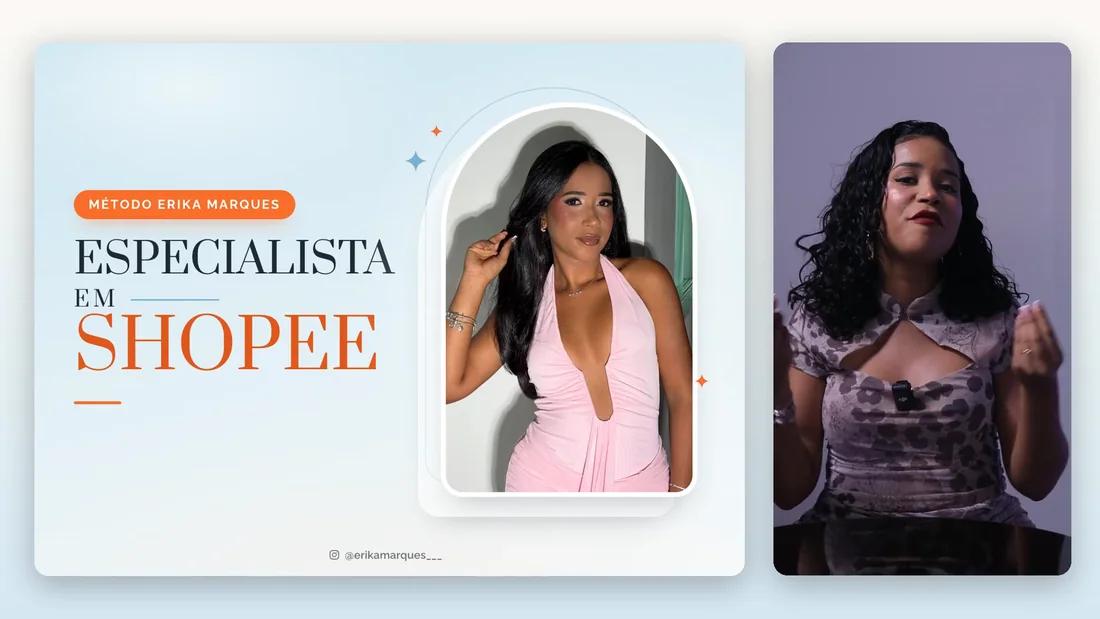
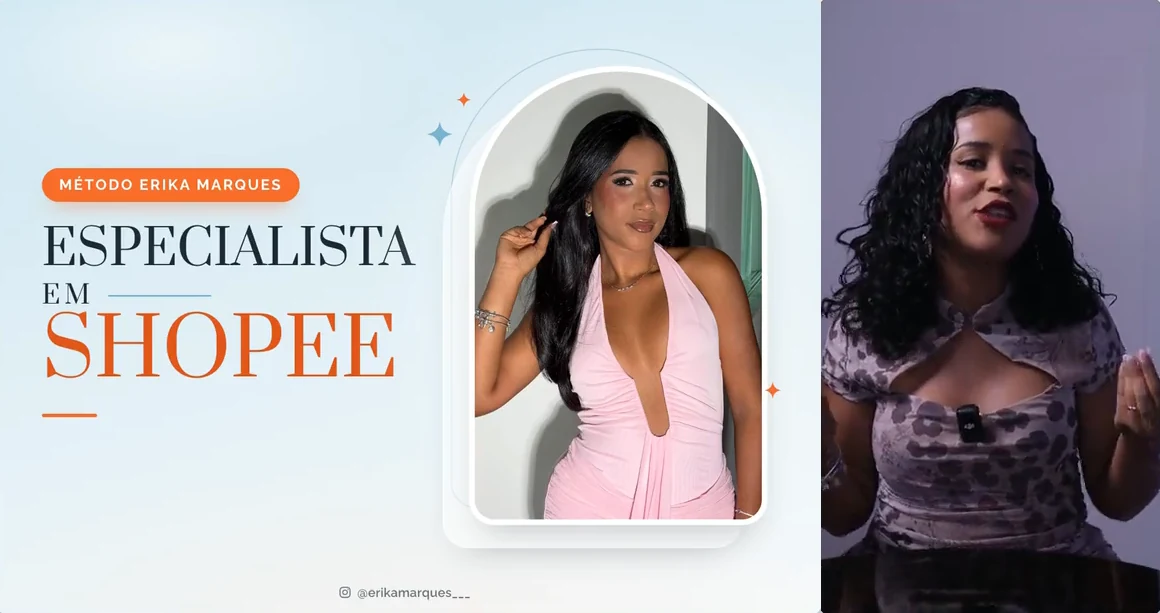
Правки Лёши 01.10: видео с отступами и цельной обложкой, плашка после тарифов, 4 подарка, подпись таймера, мозг вместо робота, меню справа вверху
Claude-Session: https://claude.ai/code/session_01M8CoCvZV8TB4j15tHc6buF

diff --git a/final/index.html b/final/index.html
@@ -69,7 +69,7 @@
       <li class="hero__tile reveal"><img src="assets/3d/A07.webp" width="360" height="347" alt="" loading="lazy" decoding="async"><span>От 1 до 4 часов в&nbsp;день</span></li>
     </ul>
     <button class="video-card" type="button" data-video-open aria-label="Смотреть видео">
-      <img src="assets/img/video-poster.webp" width="1100" height="619" alt="" loading="lazy" decoding="async">
+      <img src="assets/img/video-poster.webp" width="1160" height="613" alt="" loading="lazy" decoding="async">
       <span class="video-card__ring" aria-hidden="true"></span>
       <span class="video-card__play" aria-hidden="true"><svg class="i"><use href="#i-play"/></svg></span>
       <span class="hint hint--tap hint--dark video-card__hint" aria-hidden="true">Нажми, чтобы посмотреть</span>
@@ -77,18 +77,6 @@
   </div>
 </section>
 
-<!-- ================= План Б: плашка «Напиши мне в WhatsApp» сразу под первым блоком.
-     Скрыта по умолчанию; site.js показывает её, когда человек пришёл через форму (?lead=1, потом помним в sessionStorage) или открыл ?planb=1 ================= -->
-<section class="pb-wa" id="pb-wa" hidden aria-labelledby="pb-wa-t">
-  <div class="pb-wa__card">
-    <span class="pb-wa__ic" aria-hidden="true"><svg class="i" aria-hidden="true" focusable="false"><use href="#i-wa"/></svg></span>
-    <div class="pb-wa__txt">
-      <h2 class="pb-wa__t" id="pb-wa-t">Напиши мне в&nbsp;WhatsApp</h2>
-      <p class="pb-wa__p">Отвечу на вопросы и подскажу, какой тариф выбрать.</p>
-    </div>
-    <a class="btn btn--wa pb-wa__btn" id="pb-wa-btn" href="https://wa.me/557187627227?text=Ol%C3%A1%21%20Vim%20do%20site%20do%20curso%20e%20tenho%20uma%20d%C3%BAvida." target="_blank" rel="noopener"><svg class="i" aria-hidden="true" focusable="false"><use href="#i-wa"/></svg>Написать в WhatsApp</a>
-  </div>
-</section>
 
 <!-- ================= Блок 2 — для кого: 7 ситуаций, два варианта (A — 3D-диорамы, B — фото-сцены: ?b2=faces) ================= -->
 <section class="blk bg-paper" id="b2">
@@ -366,7 +354,7 @@
       </article>
       <!-- Лёша 01.10 (раунд 10): бывшие плитки — слайдами ленты, тот же вид, что у макетов; картинки — декор (aria-hidden) -->
       <article class="carousel__card feat feat--ai">
-        <div class="feat__media feat__media--art"><span class="feat__art feat__art--ai" aria-hidden="true"><img src="assets/l5/robot-ai.webp" width="827" height="1082" alt="" loading="lazy" decoding="async"></span></div>
+        <div class="feat__media feat__media--art"><span class="feat__art feat__art--ai" aria-hidden="true"><img src="assets/l5/brain-ai.webp" width="700" height="779" alt="" loading="lazy" decoding="async"></span></div>
         <div class="feat__txt">
           <h3 class="feat__t">Готовые команды для ИИ</h3>
           <p class="feat__p">По всем 5 способам. Вставляешь команду — и ИИ делает работу за тебя: описание товара, картинку, ответ покупателю.</p>
@@ -637,7 +625,7 @@
 <section id="tariffs" class="blk bg-golden" aria-labelledby="tariffs-title">
   <h2 class="blk__title" id="tariffs-title">Выбери свой тариф</h2>
   <div class="t8-deal">
-    <p class="t8-deal__line">Самые низкие цены действуют до:</p>
+    <p class="t8-deal__line">Выбери тариф до повышения цен:</p>
     <div class="cd t8-pcd" data-price-timer role="timer">
       <div class="cd__tile"><b data-cd="h">24</b><span>часов</span></div>
       <div class="cd__tile"><b data-cd="m">00</b><span>минут</span></div>
@@ -720,7 +708,7 @@
       </article>
   </div>
   <div class="t8-deal t8-deal--end">
-    <p class="t8-deal__line">Самые низкие цены действуют до:</p>
+    <p class="t8-deal__line">Выбери тариф до повышения цен:</p>
     <div class="cd t8-pcd" data-price-timer role="timer">
       <div class="cd__tile"><b data-cd="h">24</b><span>часов</span></div>
       <div class="cd__tile"><b data-cd="m">00</b><span>минут</span></div>
@@ -736,14 +724,28 @@
       </div>
     </div>
     <ul class="t8-bonus__list">
-      <li class="t8-bonus__item"><img class="t8-bonus__ico" src="assets/3d/clipboard.webp" alt="" width="56" height="56" loading="lazy" decoding="async"><div><span class="t8-bonus__n" aria-hidden="true">Подарок 1</span><p class="t8-bonus__name">Чек-лист «Первый клиент за 14 дней»</p></div></li>
-      <li class="t8-bonus__item"><img class="t8-bonus__ico" src="assets/3d/calculator.webp" alt="" width="56" height="56" loading="lazy" decoding="async"><div><span class="t8-bonus__n" aria-hidden="true">Подарок 2</span><p class="t8-bonus__name">Калькулятор цены</p></div></li>
-      <li class="t8-bonus__item"><img class="t8-bonus__ico" src="assets/3d/notebook.webp" alt="" width="56" height="56" loading="lazy" decoding="async"><div><span class="t8-bonus__n" aria-hidden="true">Подарок 3</span><p class="t8-bonus__name">Готовый прайс для клиентов</p></div></li>
+      <li class="t8-bonus__item"><img class="t8-bonus__ico" src="assets/3d/gift-access.webp" alt="" width="56" height="56" loading="lazy" decoding="async"><div><span class="t8-bonus__n" aria-hidden="true">Подарок 1</span><p class="t8-bonus__name">Удвоение доступа к урокам</p></div></li>
+      <li class="t8-bonus__item"><img class="t8-bonus__ico" src="assets/3d/gift-orders.webp" alt="" width="56" height="56" loading="lazy" decoding="async"><div><span class="t8-bonus__n" aria-hidden="true">Подарок 2</span><p class="t8-bonus__name">Учебных заказов от меня вдвое больше</p></div></li>
+      <li class="t8-bonus__item"><img class="t8-bonus__ico" src="assets/3d/clipboard.webp" alt="" width="56" height="56" loading="lazy" decoding="async"><div><span class="t8-bonus__n" aria-hidden="true">Подарок 3</span><p class="t8-bonus__name">Чек-лист «Первый клиент за 14 дней»</p></div></li>
+      <li class="t8-bonus__item"><img class="t8-bonus__ico" src="assets/3d/calculator.webp" alt="" width="56" height="56" loading="lazy" decoding="async"><div><span class="t8-bonus__n" aria-hidden="true">Подарок 4</span><p class="t8-bonus__name">Калькулятор цены + готовый прайс для клиентов</p></div></li>
     </ul>
   </div>
   <div class="cta">
     <a class="btn" id="tariffs-cta" href="#tariffs" data-cta>Получить доступ</a>
     <p class="cta__note">Pix или карта · Доступ сразу после оплаты · Гарантия&nbsp;7&nbsp;дней</p>
+  </div>
+</section>
+
+<!-- ================= План Б: плашка «Есть вопросы — напиши Эрике» СРАЗУ ПОСЛЕ ТАРИФОВ (Лёша 01.10: раньше это отвлекает от покупки).
+     Скрыта по умолчанию; site.js показывает её, когда человек пришёл через форму (?lead=1, потом помним в sessionStorage), открыл ?planb=1 или хост oferta. ================= -->
+<section class="pb-wa" id="pb-wa" hidden aria-labelledby="pb-wa-t">
+  <div class="pb-wa__card">
+    <span class="pb-wa__ic" aria-hidden="true"><svg class="i" aria-hidden="true" focusable="false"><use href="#i-wa"/></svg></span>
+    <div class="pb-wa__txt">
+      <h2 class="pb-wa__t" id="pb-wa-t">Напиши мне в&nbsp;WhatsApp</h2>
+      <p class="pb-wa__p">Отвечу на вопросы и подскажу, какой тариф выбрать.</p>
+    </div>
+    <a class="btn btn--wa pb-wa__btn" id="pb-wa-btn" href="https://wa.me/557187627227?text=Ol%C3%A1%21%20Vim%20do%20site%20do%20curso%20e%20tenho%20uma%20d%C3%BAvida." target="_blank" rel="noopener"><svg class="i" aria-hidden="true" focusable="false"><use href="#i-wa"/></svg>Написать в WhatsApp</a>
   </div>
 </section>
 
@@ -872,13 +874,13 @@
     <blockquote class="b10-quote"><p>У женщины должны быть свои деньги. Давай начнём с твоих.</p></blockquote>
   </figure>
   <div class="b10-deal">
-    <p class="b10-deadline">Самые низкие цены действуют до:</p>
+    <p class="b10-deadline">Выбери тариф до повышения цен:</p>
     <div class="cd b10-cd" data-price-timer role="timer">
       <div class="cd__tile"><b data-cd="h">24</b><span>часов</span></div>
       <div class="cd__tile"><b data-cd="m">00</b><span>минут</span></div>
       <div class="cd__tile"><b data-cd="s">00</b><span>секунд</span></div>
     </div>
-    <p class="b10-bonus">Оплатишь в течение 3 часов — получишь бонусы: чек-лист «Первый клиент за 14 дней», калькулятор цены и готовый прайс.</p>
+    <p class="b10-bonus">Оплатишь в течение 3 часов — получишь бонусы: удвоение доступа, вдвое больше учебных заказов, чек-лист «Первый клиент за 14 дней», калькулятор цены и готовый прайс.</p>
   </div>
   <div class="cta">
     <a class="btn" id="b10-cta" href="#tariffs" data-cta>Получить доступ</a>
@@ -898,7 +900,7 @@
     <details class="b11-q"><summary>Нужен компьютер?</summary><div class="b11-a"><p>Нет, хватит телефона с интернетом.</p></div></details>
     <details class="b11-q"><summary>Сколько времени нужно?</summary><div class="b11-a"><p>От 1 до 4 часов в день — в своём графике.</p></div></details>
     <details class="b11-q"><summary>Когда и куда придёт доступ?</summary><div class="b11-a"><p>Сразу после оплаты — на почту, которую ты указала. Поэтому указывай её внимательно.</p></div></details>
-    <details class="b11-q"><summary>Сколько длится доступ?</summary><div class="b11-a"><p>Зависит от тарифа: «Старт» — 2 месяца, «Специалист по Shopee» — 6 месяцев, VIP — 12 месяцев.</p></div></details>
+    <details class="b11-q"><summary>Сколько длится доступ?</summary><div class="b11-a"><p>Зависит от тарифа: «Старт» — 2 месяца, «Специалист по Shopee» — 6 месяцев, VIP — 12 месяцев. Оплатишь в течение 3 часов — доступ удвоим (кроме «Старта»): 12 и 24 месяца.</p></div></details>
     <details class="b11-q"><summary>У меня нет кредитной карты. Смогу оплатить?</summary><div class="b11-a"><p>Да, через Pix со своего банковского счёта.</p></div></details>
     <details class="b11-q"><summary>У меня «грязное имя» (долги в Serasa). Смогу оплатить?</summary><div class="b11-a"><p>Да. Pix — это перевод с твоего банковского счёта, кредитную историю никто не проверяет.</p></div></details>
     <details class="b11-q"><summary>Своих денег прямо сейчас нет. Что делать?</summary><div class="b11-a"><p>Можно оплатить картой мужа или мамы — с их согласия, доступ получаешь ты. Или разбить оплату до 12 платежей: «Специалист по Shopee» — R$&nbsp;41,27 в месяц.</p></div></details>
@@ -956,6 +958,26 @@
 </footer>
 
 </main>
+
+<!-- Меню в правом верхнем углу (Лёша 01.10): быстрый переход по блокам, условия и политика. Логика — site.js, стили — site.css (.topnav) -->
+<div class="topnav" id="topnav">
+  <button class="topnav__btn" id="topnav-btn" type="button" aria-expanded="false" aria-controls="topnav-panel">
+    <span class="topnav__bars" aria-hidden="true"><i></i><i></i><i></i></span>
+    <span class="topnav__lbl">Меню</span>
+  </button>
+  <nav class="topnav__panel" id="topnav-panel" aria-label="Навигация по сайту" hidden>
+    <a href="#b2">Для кого подойдёт</a>
+    <a href="#b3">Обо мне</a>
+    <a href="#b6">Что ты получаешь</a>
+    <a href="#b7">Программа обучения</a>
+    <a href="#tariffs">Тарифы</a>
+    <a href="#b9">Как оплатить</a>
+    <a href="#b11">Вопросы и ответы</a>
+    <span class="topnav__sep" aria-hidden="true"></span>
+    <a class="topnav__sm" href="termos/">Условия</a>
+    <a class="topnav__sm" href="privacidade/">Политика конфиденциальности</a>
+  </nav>
+</div>
 
 <!-- Закреплённая панель: всегда внизу экрана -->
 <div class="sticky-cta is-compact" id="sticky-cta" data-state="compact">

diff --git a/final/assets/site.css b/final/assets/site.css
@@ -1124,9 +1124,11 @@ html[data-b2="a"] .b2v--b, html:not([data-b2="a"]) .b2v--a { display: none; }
    ПРАВКИ ЛЁШИ 01.10 (вечер): видео крупнее и красный акцент; плашка плана Б ровнее
    ===================================================================== */
 /* Видео: срезаем поля постера (≈3 %), на телефоне карточка на всю ширину экрана; меньше пустоты до «Для кого подойдёт» */
-.video-card img { transform: scale(1.07); }
+/* 01.10 19:30 (Лёша): видео не на весь экран, а карточкой с полями слева и справа; слайд и Эрика — одним кадром без шва */
+.video-card { aspect-ratio: 1160 / 613; }
+.video-card img { transform: none; }
 @media (max-width: 767px) {
-  .video-card { width: calc(100% + 40px); max-width: none; margin-inline: -20px; border-radius: 0; box-shadow: none; }
+  .video-card { width: calc(100% + 8px); max-width: none; margin-inline: -4px; border-radius: 20px; box-shadow: 0 14px 30px -14px rgba(31, 42, 51, .45), 0 0 0 1px rgba(31, 42, 51, .08); }
   #b1 { padding-bottom: 0; }
 }
 #b2 { padding-top: 40px; }
@@ -1183,3 +1185,41 @@ html.emc-on .pb-wa__btn { background: var(--ink); color: #fff; border: 0; box-sh
 .feat__bl li::before { content: ""; position: absolute; left: 2px; top: .5em; width: 6px; height: 6px; border-radius: 50%; background: var(--cta); }
 @media (min-width: 768px) { .feat--les .feat__media--art { height: 150px; } }
 @media (min-width: 1024px) { .feat--les .feat__media--art { height: 160px; } }
+
+/* =====================================================================
+   Меню в правом верхнем углу (Лёша 01.10, голосовое 19:26): быстрый переход по блокам
+   ===================================================================== */
+.topnav { position: fixed; z-index: 45; top: calc(10px + env(safe-area-inset-top)); right: 12px; }
+.topnav__btn {
+  display: inline-flex; align-items: center; justify-content: center; gap: 8px; height: 44px; min-width: 44px; padding: 0 14px;
+  border: 1px solid rgba(31, 42, 51, .1); border-radius: 22px; background: rgba(255, 255, 255, .92);
+  -webkit-backdrop-filter: blur(14px); backdrop-filter: blur(14px); color: var(--ink);
+  box-shadow: 0 10px 22px -12px rgba(31, 42, 51, .45); font: 600 15px/1 var(--sans, 'Raleway', sans-serif); cursor: pointer;
+  -webkit-tap-highlight-color: transparent;
+}
+.topnav__btn:focus-visible { outline: 3px solid var(--azure-sm); outline-offset: 2px; }
+.topnav__bars { position: relative; display: block; width: 18px; height: 14px; }
+.topnav__bars i { position: absolute; left: 0; right: 0; height: 2px; border-radius: 2px; background: currentColor; transition: transform .22s ease, opacity .18s ease, top .22s ease; }
+.topnav__bars i:nth-child(1) { top: 0; }
+.topnav__bars i:nth-child(2) { top: 6px; }
+.topnav__bars i:nth-child(3) { top: 12px; }
+.topnav.is-open .topnav__bars i:nth-child(1) { top: 6px; transform: rotate(45deg); }
+.topnav.is-open .topnav__bars i:nth-child(2) { opacity: 0; }
+.topnav.is-open .topnav__bars i:nth-child(3) { top: 6px; transform: rotate(-45deg); }
+.topnav__lbl { display: none; }
+.topnav__panel {
+  position: absolute; top: 54px; right: 0; width: min(300px, calc(100vw - 24px)); max-height: calc(100vh - 80px); overflow-y: auto;
+  padding: 8px; border-radius: 20px; background: #fff; border: 1px solid rgba(31, 42, 51, .08);
+  box-shadow: 0 24px 48px -18px rgba(31, 42, 51, .5);
+  transform-origin: top right; animation: topnav-in .18s ease-out;
+}
+.topnav__panel[hidden] { display: none; }
+.topnav__panel a { display: block; padding: 13px 14px; border-radius: 12px; color: var(--ink); text-decoration: none; font: 600 16px/1.25 var(--sans, 'Raleway', sans-serif); }
+.topnav__panel a:hover, .topnav__panel a:focus-visible { background: var(--sky-0); }
+.topnav__panel a[href="#tariffs"] { color: #C9531A; }
+.topnav__panel a.topnav__sm { padding: 10px 14px; font-weight: 500; font-size: 14px; color: #55636E; }
+.topnav__sep { display: block; height: 1px; margin: 6px 12px; background: rgba(31, 42, 51, .1); }
+@keyframes topnav-in { from { opacity: 0; transform: scale(.96) translateY(-4px); } to { opacity: 1; transform: none; } }
+@media (min-width: 768px) { .topnav { top: 16px; right: 24px; } .topnav__lbl { display: inline; } .topnav__btn { padding: 0 18px 0 14px; } }
+@media (prefers-reduced-motion: reduce) { .topnav__panel { animation: none; } .topnav__bars i { transition: none; } }
+

diff --git a/final/assets/site-b.css b/final/assets/site-b.css
@@ -643,8 +643,8 @@
   #tariffs .t8-deal { max-width: 560px; margin: 0 auto 20px; }
   #tariffs .t8 { max-width: 560px; margin-inline: auto; gap: 20px; }
   #tariffs .t8-bonus { margin-top: 32px; padding: 24px; }
-  /* раунд 10: три подарка в ряд, плитки равные: предмет сверху, подпись и название под ним */
-  #tariffs .t8-bonus__list { grid-template-columns: repeat(3, minmax(0, 1fr)); gap: 12px; }
+  /* раунд 10: плитки равные: предмет сверху, подпись и название под ним */
+  #tariffs .t8-bonus__list { grid-template-columns: repeat(2, minmax(0, 1fr)); gap: 12px; }   /* раунд 13: подарков четыре (слайд 53 презентации) — 2 × 2 */
   #tariffs .t8-bonus__item { grid-template-columns: minmax(0, 1fr); align-content: start; justify-items: start; row-gap: 10px; padding: 16px; }
 
   /* ---- 8А: слева цена дня и расчёт, справа весы; цитата, вопросы и кнопка — на всю ширину ---- */
@@ -748,3 +748,5 @@
 /* Лёша 01.10 (IMG_3417): таймер цены ещё и в конце тарифов, после VIP и перед бонусами */
 #tariffs .t8-deal--end { margin: 20px auto 20px; }
 
+/* Лёша 01.10 (вечер): подарков снова четыре, по слайду 53 презентации — 2 × 2 на планшете и десктопе */
+#tariffs .t8-bonus__ico { object-fit: contain; }

diff --git a/final/assets/site.js b/final/assets/site.js
@@ -494,4 +494,21 @@
       pio.observe(track);
     });
   }
+
+  /* ---------- Меню в правом верхнем углу (#topnav): открыть/закрыть, переход по якорям ---------- */
+  (function () {
+    const box = d.getElementById('topnav'), btn = d.getElementById('topnav-btn'), panel = d.getElementById('topnav-panel');
+    if (!box || !btn || !panel) return;
+    let y0 = 0;
+    const set = (open) => {
+      if (open) y0 = window.scrollY || 0;
+      panel.hidden = !open; btn.setAttribute('aria-expanded', open ? 'true' : 'false'); box.classList.toggle('is-open', open);
+    };
+    btn.addEventListener('click', () => set(panel.hidden));
+    panel.addEventListener('click', (e) => { if (e.target.closest && e.target.closest('a')) set(false); });
+    d.addEventListener('click', (e) => { if (!panel.hidden && !box.contains(e.target)) set(false); });
+    d.addEventListener('keydown', (e) => { if (e.key === 'Escape' && !panel.hidden) { set(false); btn.focus(); } });
+    /* лента листается пальцем — меню закрываем, чтобы не висело поверх блока */
+    window.addEventListener('scroll', () => { if (!panel.hidden && Math.abs((window.scrollY || 0) - y0) > 160) set(false); }, { passive: true });
+  })();
 })();
